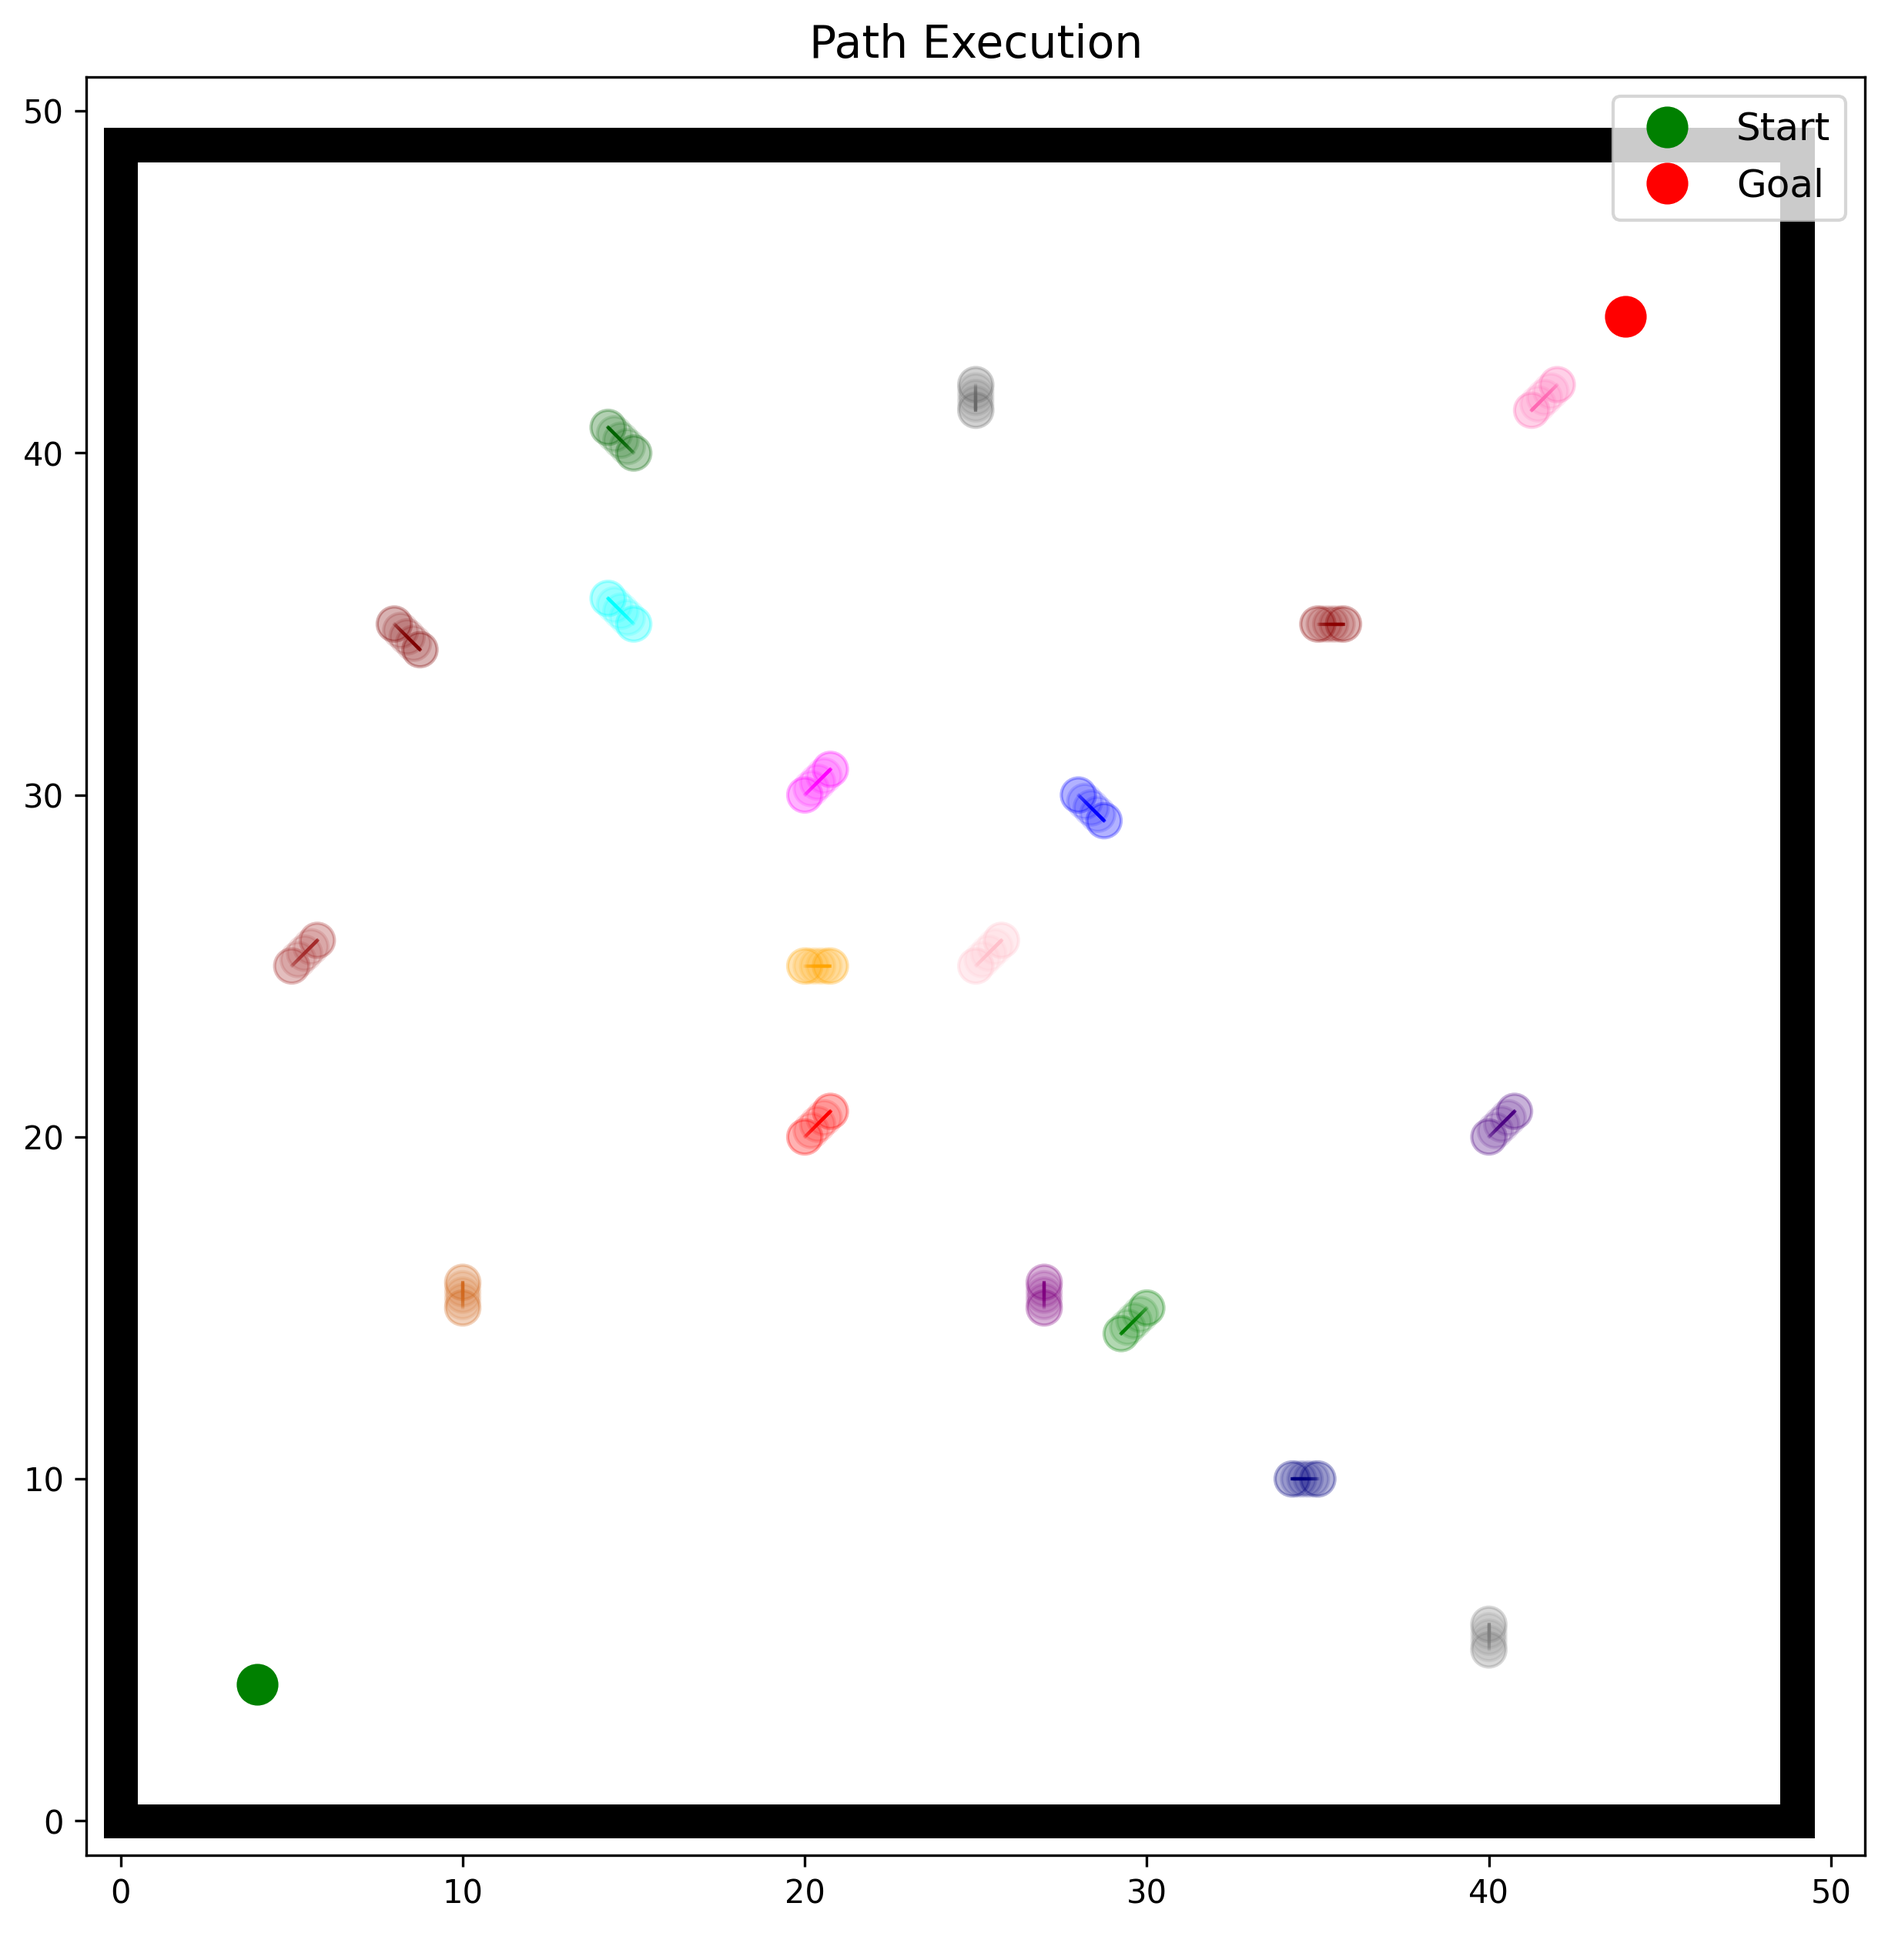
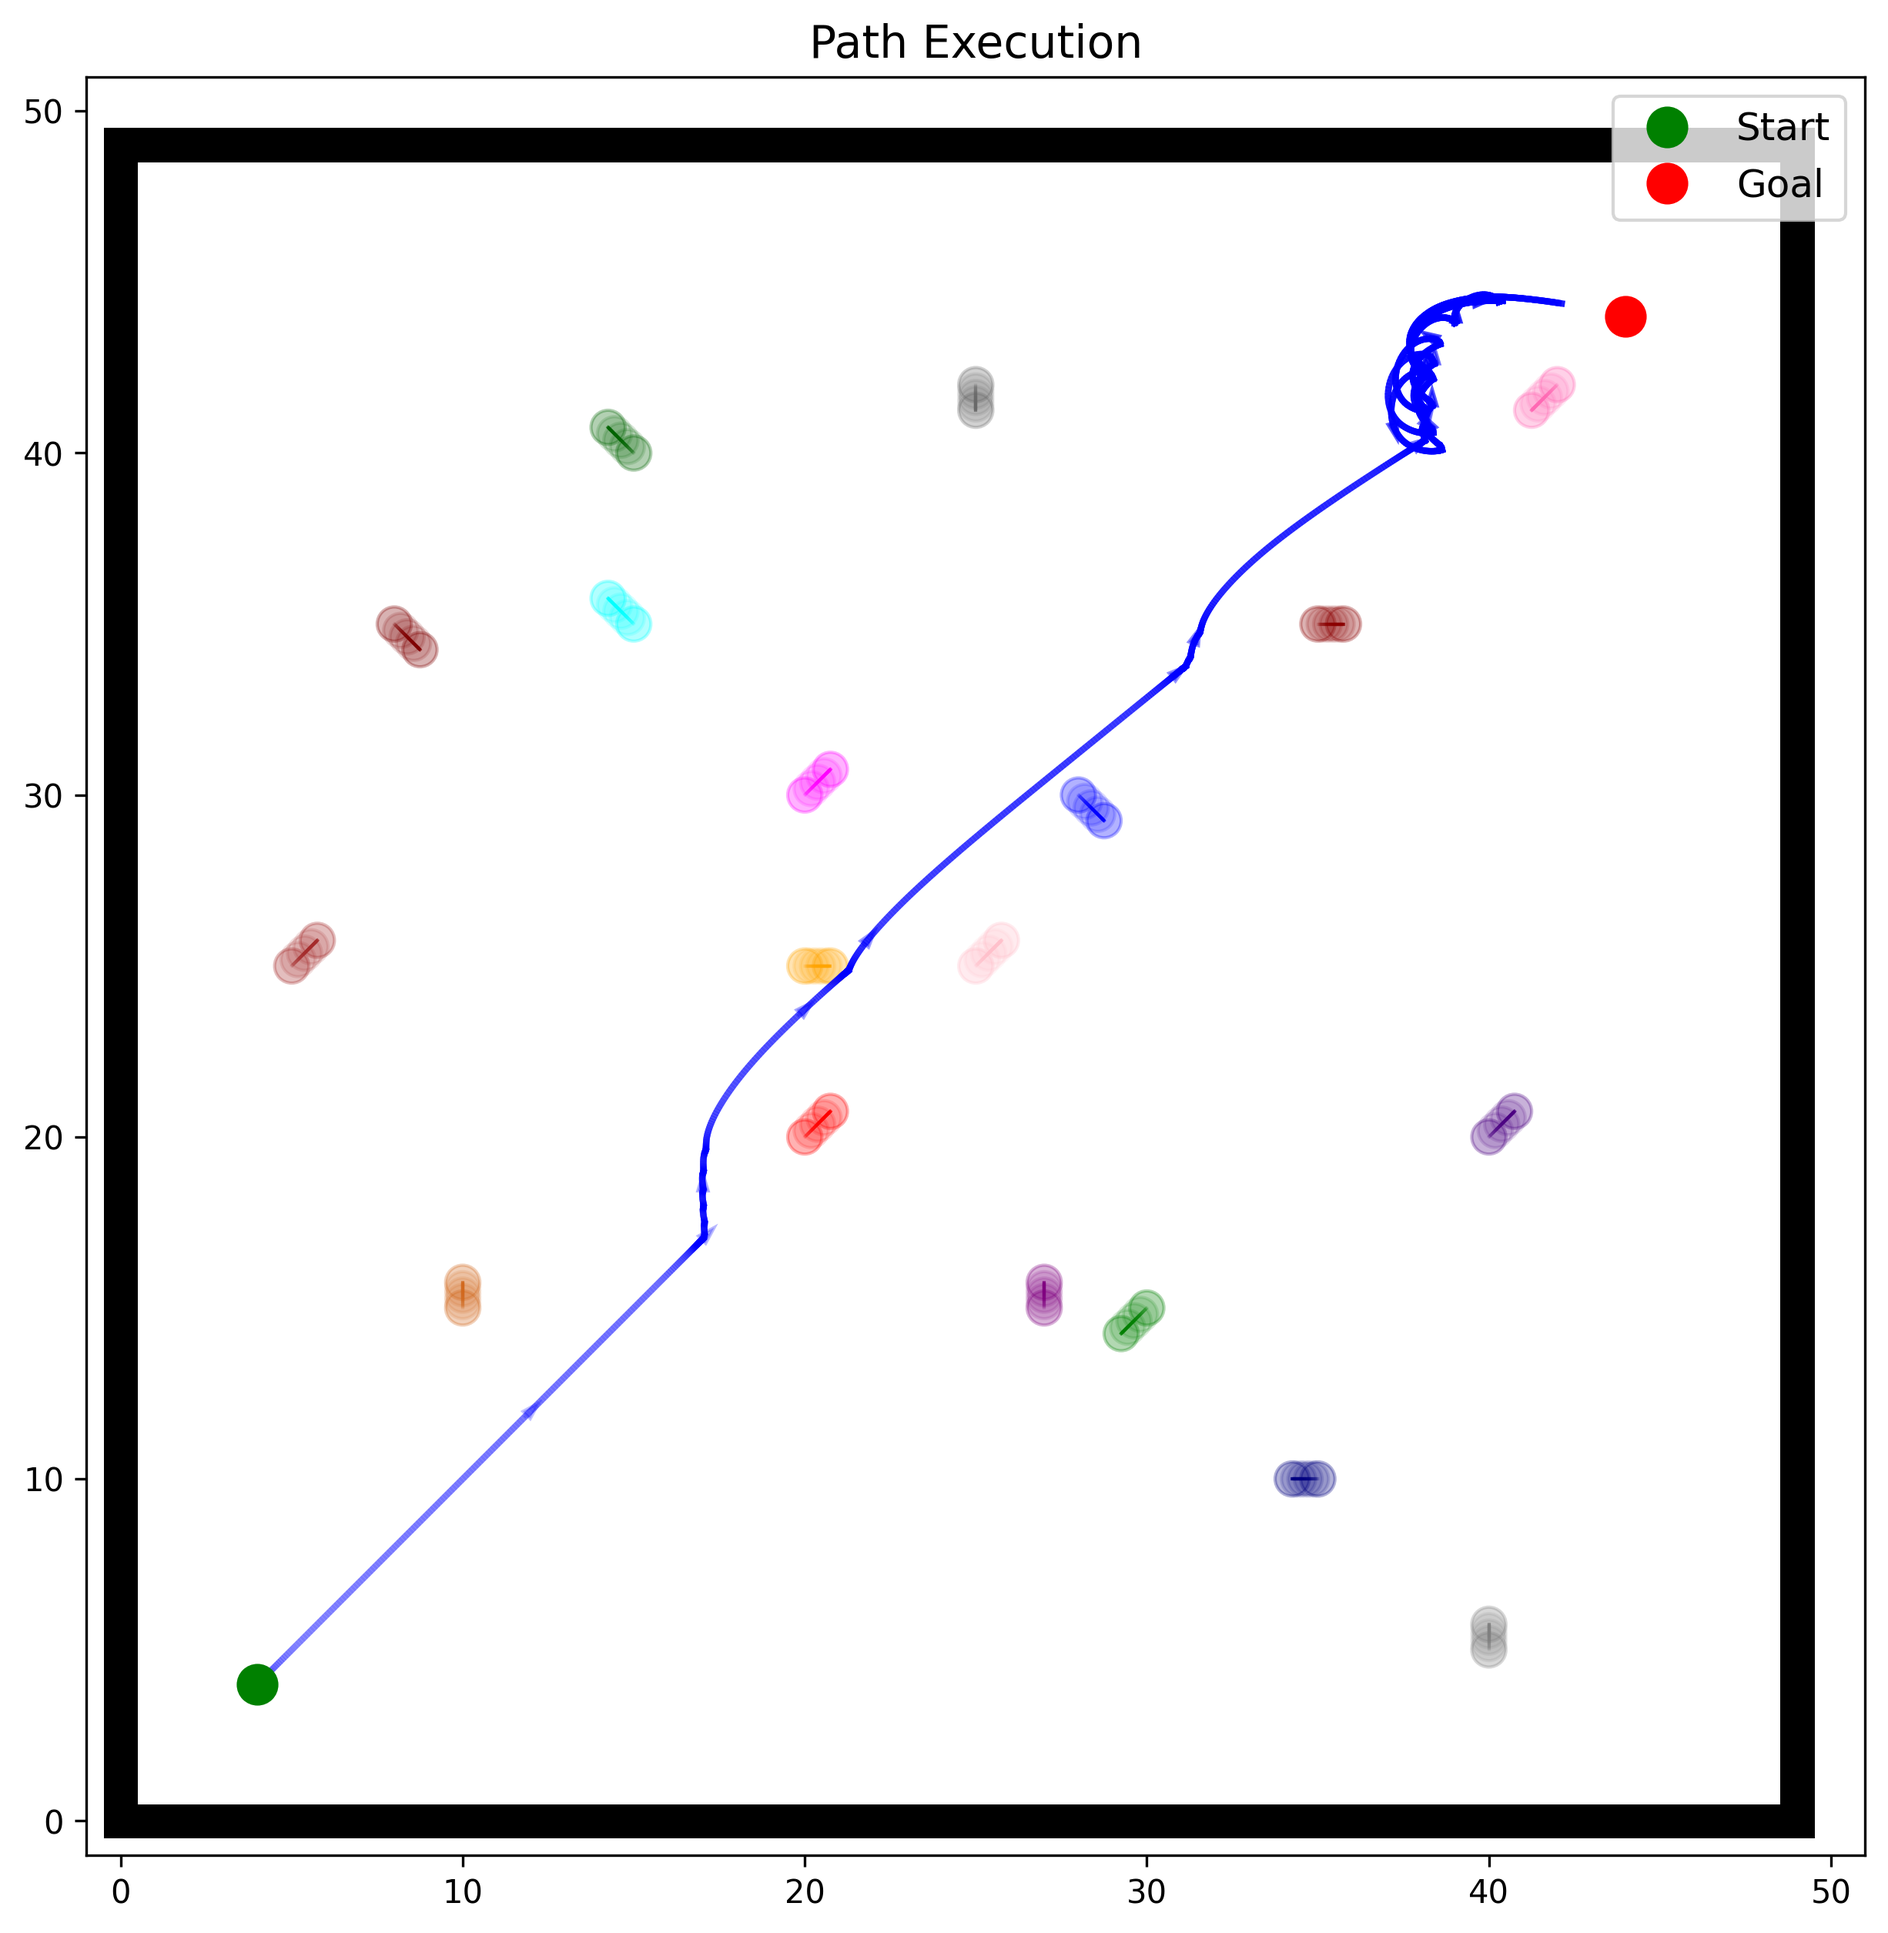
tr

diff --git a/maze_runner_dynamic.py b/maze_runner_dynamic.py
@@ -547,35 +547,19 @@ def run_simulation_dwa(maze, obstacles, start, goal, dynamic_obstacles, num_runs
                 print(f"Goal reached in run {run_index + 1}")
                 successful_runs += 1
                 break
-            
-            # Check for collisions with all obstacles
-            collision = False
-            robot_pos = np.array([x[0], x[1]])
-            for obs in all_obstacles:
-                obs_pos = np.array([obs[0], obs[1]])
-                dist = np.linalg.norm(robot_pos - obs_pos)
-                if dist <= (config.robot_radius + obs[2]):
-                    collision = True
-                    print(f"Collision detected in run {run_index + 1}")
-                    break
-            
-            if collision:
-                break
 
         end_time = time.time()
         
-        # Only count successful runs
-        if not collision:
-            path_length = np.sum(np.sqrt(np.sum(np.diff(trajectory, axis=0)**2, axis=1)))
-            total_path_length += path_length
-            total_time += end_time - start_time
-            
-            if path_length < best_path_length:
-                best_path_length = path_length
-                best_trajectory = trajectory
+        path_length = np.sum(np.sqrt(np.sum(np.diff(trajectory, axis=0)**2, axis=1)))
+        total_path_length += path_length
+        total_time += end_time - start_time
+        
+        if path_length < best_path_length:
+            best_path_length = path_length
+            best_trajectory = trajectory
 
-    avg_path_length = total_path_length / successful_runs if successful_runs > 0 else float('inf')
-    avg_time = total_time / successful_runs if successful_runs > 0 else float('inf')
+    avg_path_length = total_path_length / num_runs
+    avg_time = total_time / num_runs
     success_rate = successful_runs / num_runs
     
     print(f"DWA Success rate: {success_rate * 100:.2f}%")
@@ -649,7 +633,7 @@ def main():
 
     for algo_name, algo_func in algorithms:
         results = []
-        for level in range(1, 11):
+        for level in range(9, 11):
             maze, static_obstacles, dynamic_obstacles = maze_gen.get_maze(level)
             start = maze_gen.start
             goal = maze_gen.goal
